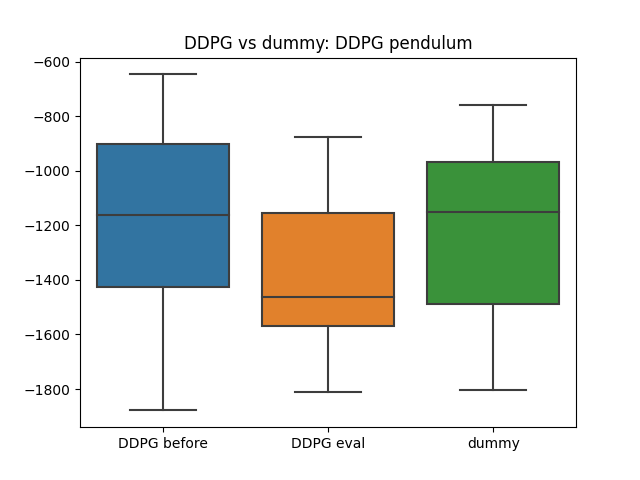
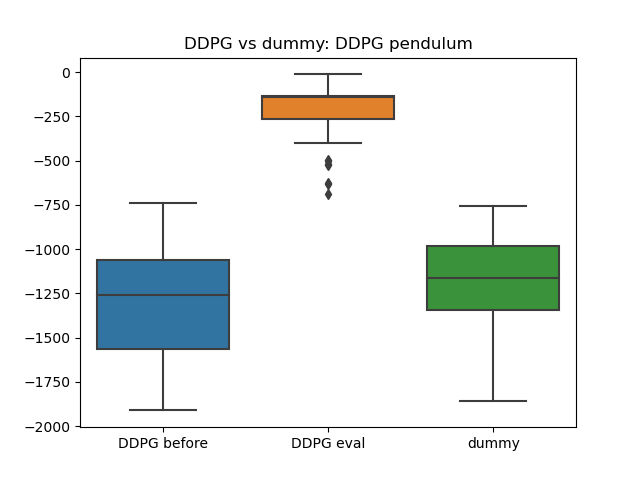
Fixed serious error in DDPG implementation. IT FINALLY WORKS FOR PENDULUM ENV!!! :) Stupid bug on plain sight.

diff --git a/src/algorithms/hybrid/tf2/ddpg.py b/src/algorithms/hybrid/tf2/ddpg.py
@@ -16,6 +16,7 @@ import src.algorithms.algo_utils as autils
 from src import consts
 
 
+
 class DDPG(acommons.RLAgent):
     """
     DDPG implementation. Paper:
@@ -29,20 +30,23 @@ class DDPG(acommons.RLAgent):
                  buffer: mbuff.SimpleMemory,
                  a_min: float,
                  a_max: float,
-                 net_optimizer: krs.optimizers.Optimizer = krs.optimizers.Adam(0.01),
+                 actor_optimizer: krs.optimizers.Optimizer = krs.optimizers.Adam(0.01),
+                 critic_optimizer: krs.optimizers.Optimizer = krs.optimizers.Adam(0.01),
                  loss_function: str = 'mean_squared_error',
                  action_clipper: rl_commons.ActionClipper = rl_commons.DefaultActionClipper(),
                  polyak_tau: float = 0.005,
-                 noise_std: float = 0.1,
+                 noise_gen: autils.NoiseGenerator = autils.OUActionNoise(mean=np.zeros(1), std_deviation=float(0.2) * np.ones(1)),
                  name: str = "DDPG",
-                 target_update_frequency: int = 5):
+                 target_update_frequency: int = 1):
         super().__init__(action_clipper, name)
+        self.noise_gen = noise_gen
         self.actor_net = actor_net
-        self.actor_net_target = actor_net_target
+        self.target_actor = actor_net_target
         self.critic_net = critic_net
-        self.critic_net_target = critic_net_target
+        self.target_critic = critic_net_target
 
-        self.net_optimizer = net_optimizer
+        self.actor_optimizer = actor_optimizer
+        self.critic_optimizer = critic_optimizer
         self.loss_function = loss_function
         self.a_min = a_min
         self.a_max = a_max
@@ -50,23 +54,18 @@ class DDPG(acommons.RLAgent):
         self.polyak_tau = polyak_tau
         self.target_update_frequency = target_update_frequency
 
-        self.noise_std = noise_std
+        self.noise_std = noise_gen
 
-        self.critic_net_target.net.set_weights(self.critic_net.net.get_weights())
-        self.actor_net_target.set_weights(self.actor_net.get_weights())
-
-        self.actor_net.compile(loss=self.loss_function, optimizer=self.net_optimizer)
-        self.actor_net_target.compile(loss=self.loss_function, optimizer=self.net_optimizer)
-
-        self.critic_net.net.compile(loss=self.loss_function, optimizer=self.net_optimizer)
-        self.critic_net_target.net.compile(loss=self.loss_function, optimizer=self.net_optimizer)
+        # self.target_critic.net.set_weights(self.critic_net.net.get_weights())
+        # self.target_actor.set_weights(self.actor_net.get_weights())
 
     def choose_action(self, s: np.array, *args, **kwargs) -> Tuple[np.array, np.array]:
         a, _ = self.actor_net.policy(np.atleast_2d(s))
         a = a.numpy()
-        a_noisy = a + np.random.normal(0.0, scale=self.noise_std, size=(1, self.actor_net.a_dim))
-        a_clip = np.clip(a_noisy, self.a_min, self.a_max)
-        return a_clip.squeeze(), None
+        noise = self.noise_gen.get_noise(a).squeeze()
+        self.noise_gen.update_noise_params()
+        a_noisy = np.clip(a + noise, self.a_min, self.a_max)
+        return a_noisy.squeeze(), None
 
     def train(self,
               env: gym.wrappers.TimeLimit,
@@ -112,7 +111,7 @@ class DDPG(acommons.RLAgent):
                 a, _, done, r, sprime = self.make_step(s, env, clip_action, scaler)
                 self.buffer.store_transition(s, a, r, sprime, None, None, None, done)
 
-                if self.buffer.actual_size >= warmup_size:
+                if self.buffer.actual_size >= warmup_size or done:
                     memory_sample = self.buffer.sample(batch_size, dim_state, dim_action, preserve_order=False)
                     batch_s, batch_a, \
                     batch_r, batch_done, \
@@ -128,9 +127,17 @@ class DDPG(acommons.RLAgent):
                 s = sprime
                 ep_score += r
 
-            if ep % self.target_update_frequency == 0:
-                qnets.polyak_tau_update_networks(self.actor_net_target, self.actor_net, self.polyak_tau)
-                qnets.polyak_tau_update_networks(self.critic_net_target.net, self.critic_net.net, self.polyak_tau)
+                if learning_step % self.target_update_frequency == 0:
+                    for target_w, new_w in zip(self.target_actor.trainable_weights,
+                                               self.actor_net.trainable_weights):
+                        target_w.assign((new_w * self.polyak_tau) + (1. - self.polyak_tau) * target_w)
+
+                    for target_w, new_w in zip(self.target_critic.net.trainable_weights,
+                                               self.critic_net.net.trainable_weights):
+                        target_w.assign((new_w * self.polyak_tau) + (1. - self.polyak_tau) * target_w)
+
+                # qnets.polyak_tau_update_networks(self.target_actor, self.actor_net, self.polyak_tau)
+                # qnets.polyak_tau_update_networks(self.target_critic.net, self.critic_net.net, self.polyak_tau)
 
             if ep % print_interval == 0:
                 autils.log_progress(max_train_sec, average_n_last, all_scores, t0, losses, ep, nepisodes, log,
@@ -153,25 +160,25 @@ class DDPG(acommons.RLAgent):
               gamma: float,
               learning_step: int,
               *args, **kwargs) -> float:
-        sprime_action, _ = self.actor_net_target.policy(sprime)
-        sprime_action = sprime_action.numpy()
-        sprime_target_q_vals = self.critic_net_target.state_action_value(sprime, sprime_action).numpy().squeeze()
+        sprime_action, _ = self.target_actor.policy(sprime)
+
+        sprime_target_q_vals = tf.squeeze(self.target_critic.state_action_value(sprime, sprime_action))
 
         # y = ri + gamma * Q-target(s', a') * (1-done)
-        targets_critic = r + (gamma * (sprime_target_q_vals * (1. - done)))
+        td_target = r + (gamma * (sprime_target_q_vals * (1. - done)))
 
         with tf.GradientTape() as tape:
             mse = krs.losses.MeanSquaredError()
-            s_qval = self.critic_net.state_action_value(s, a, training=True)
-            loss_critic = mse(targets_critic, s_qval)
+            s_qval = self.critic_net.net([s, a], training=True)
+            loss_critic = mse(td_target, s_qval)
         grad_critic = tape.gradient(loss_critic, self.critic_net.net.trainable_variables)
-        self.net_optimizer.apply_gradients(zip(grad_critic, self.critic_net.net.trainable_variables))
+        self.critic_optimizer.apply_gradients(zip(grad_critic, self.critic_net.net.trainable_variables))
 
         with tf.GradientTape() as tape:
-            new_actions, _ = self.actor_net.policy(s)
-            vs = self.critic_net.state_action_value(s, new_actions, training=True)
+            new_actions = self.actor_net(np.atleast_2d(s))
+            vs = self.critic_net.net([s, new_actions], training=True)
             loss_actor = -1 * tf.math.reduce_mean(vs)
         grad_actor = tape.gradient(loss_actor, self.actor_net.trainable_variables)
-        self.net_optimizer.apply_gradients(zip(grad_actor, self.actor_net.trainable_variables))
+        self.actor_optimizer.apply_gradients(zip(grad_actor, self.actor_net.trainable_variables))
 
         return 0.5 * (loss_critic + loss_actor)

diff --git a/src/algorithms/algo_utils.py b/src/algorithms/algo_utils.py
@@ -2,7 +2,7 @@ import logging
 import sys
 import time
 import mlflow
-from typing import List
+from typing import List, Callable
 
 import gym
 import numpy as np
@@ -14,6 +14,63 @@ import src.algorithms.commons as rl_commons
 NANS_EPISLON = "NaNs in epsilons check params"
 
 TOO_FEW_EPISODES_MSG = "Cannot allocate decayed espilons. Try to increase number of episodes or increase decay rate"
+
+
+class NoiseGenerator:
+
+    def get_noise(self, x: np.ndarray) -> np.float:
+        raise NotImplementedError()
+
+    def update_noise_params(self):
+        pass
+
+
+class SimpleNoiseGenerator(NoiseGenerator):
+
+    def __init__(self, mu: float, std: float, rho: float = 0.15, dt: float = 1e-1, dim: int = 1):
+        self.mu = mu
+        self.std = std
+        self.rho = rho
+        self.dt = dt
+        self.dim = dim
+
+    def get_noise(self, x: np.ndarray) -> np.float:
+        return (
+                x + self.rho * (self.mu - x) * self.dt + self.std * np.sqrt(self.dt) * np.random.normal(size=self.dim)
+        )
+
+
+class OUActionNoise(NoiseGenerator):
+    """
+    This implementation has been copied from the Keras documentation site: https://github.com/keras-team/keras-io/blob/master/examples/rl/ddpg_pendulum.py
+    https://github.com/keras-team/keras-io/blob/master/examples/rl/ddpg_pendulum.py
+    """
+    def __init__(self, mean, std_deviation, theta=0.15, dt=1e-2, x_initial=None):
+        self.theta = theta
+        self.mean = mean
+        self.std_dev = std_deviation
+        self.dt = dt
+        self.x_initial = x_initial
+        self.reset()
+
+    def get_noise(self, x: np.ndarray):
+        # Formula taken from https://www.wikipedia.org/wiki/Ornstein-Uhlenbeck_process.
+        x_noise = (
+            self.x_prev
+            + self.theta * (self.mean - self.x_prev) * self.dt
+            + self.std_dev * np.sqrt(self.dt) * np.random.normal(size=self.mean.shape)
+        )
+        # Store x into x_prev
+        # Makes next noise dependent on current one
+        self.x_prev = x_noise
+        return x_noise
+
+    def reset(self):
+        if self.x_initial is not None:
+            self.x_prev = self.x_initial
+        else:
+            self.x_prev = np.zeros_like(self.mean)
+
 
 
 def normalize_state(s: np.ndarray, scaler: object = None) -> np.array:
@@ -96,7 +153,7 @@ def log_progress(
 
 
 def evaluate_algorithm(model: rl_commons.RLAgent, env: gym.Env, n_episodes: int, max_ep_steps: int = 1000,
-                       clip_action: bool = True, scaler: object = None, last_reward_only: bool = False) -> np.array:
+                       clip_action: bool = True, scaler: object = None, last_reward_only: bool = False, scores_summary_operator: Callable = np.sum) -> np.array:
     """
     Evaluates an agent against an environment and collects scores along the way.
 
@@ -124,6 +181,9 @@ def evaluate_algorithm(model: rl_commons.RLAgent, env: gym.Env, n_episodes: int,
         Should only last reward in episode be returned? Useful in env when the final reward is some sort of summary
         e.g. profit & loss.
 
+    scores_summary_operator: Callable
+        A function to be called to summarize episode.
+
     Returns
     -------
     np.array
@@ -133,7 +193,7 @@ def evaluate_algorithm(model: rl_commons.RLAgent, env: gym.Env, n_episodes: int,
     for _ in tqdm(range(n_episodes)):
         done = False
         step = 0
-        ep_score = 0.
+        ep_scores = []
         s = env.reset()
         while not done:
             if step > max_ep_steps:
@@ -142,12 +202,13 @@ def evaluate_algorithm(model: rl_commons.RLAgent, env: gym.Env, n_episodes: int,
             a, a_logprob = model.choose_action(s)
             a_clip = np.clip(a, env.action_space.low, env.action_space.high) if clip_action else a
             sprime, r, done, _ = env.step(np.atleast_1d(a_clip)) if env.action_space.shape != () else env.step(a_clip)
-            ep_score += r
+            ep_scores.append(r)
             s = sprime
         if last_reward_only:
             scores.append(r)
         else:
-            scores.append(ep_score)
+            ep_summary = scores_summary_operator(ep_scores)
+            scores.append(ep_summary)
     return np.array(scores)
 
 

diff --git a/experiments/hybrid/ddpg/ddpg_pendulum_experiment.py b/experiments/hybrid/ddpg/ddpg_pendulum_experiment.py
@@ -14,7 +14,6 @@ from src.envs.cartpole_continuous import ContinuousCartPoleEnv
 
 EXPERIMENT_NAME = "DDPG pendulum"
 
-
 if __name__ == "__main__":
     log = utils.prepare_default_log()
     model_name_abbrev = f'ddpg'
@@ -31,29 +30,39 @@ if __name__ == "__main__":
     h_initializer = krs.initializers.HeNormal()
     out_initializer = krs.initializers.RandomUniform(minval=-0.003, maxval=0.003)
     actor_net = pinets.DeterministicPolicyNet(a_dim, h_sizes=policy_arch, h_act=policy_act_f, out_act=out_act_f,
-                                              out_initializer=out_initializer, hidden_initializer=h_initializer, a_max=h)
-    actor_net_target = pinets.DeterministicPolicyNet(a_dim=a_dim, h_sizes=policy_arch, h_act=policy_act_f, out_act=out_act_f,
-                                                     out_initializer=out_initializer, hidden_initializer=h_initializer, a_max=h)
+                                              out_initializer=out_initializer, hidden_initializer=h_initializer,
+                                              a_max=h)
+    actor_net_target = pinets.DeterministicPolicyNet(a_dim=a_dim, h_sizes=policy_arch, h_act=policy_act_f,
+                                                     out_act=out_act_f,
+                                                     out_initializer=out_initializer, hidden_initializer=h_initializer,
+                                                     a_max=h)
 
     critic_arch_shared = [256, 256]
     critic_arch_a_sizes = [64]
-    critic_arch_s_sizes = [64]
+    critic_arch_s_sizes = [64, 32]
     critic_h_act = 'relu'
-    critic_out_act = None
-    critic = q_nets.QSANet(s_dim, a_dim, critic_arch_shared, critic_arch_a_sizes, critic_arch_s_sizes, h_act=critic_h_act, out_act=critic_out_act)
-    critic_target = q_nets.QSANet(s_dim, a_dim, critic_arch_shared, critic_arch_a_sizes, critic_arch_s_sizes, h_act=critic_h_act, out_act=critic_out_act)
+    critic_out_act = 'linear'
+    critic = q_nets.QSANet(s_dim, a_dim, critic_arch_shared, critic_arch_a_sizes, critic_arch_s_sizes,
+                           h_act=critic_h_act, out_act=critic_out_act)
+    critic_target = q_nets.QSANet(s_dim, a_dim, critic_arch_shared, critic_arch_a_sizes, critic_arch_s_sizes,
+                                  h_act=critic_h_act, out_act=critic_out_act)
 
-    lr_policy = 0.001
-    opt = krs.optimizers.Adam(lr_policy)
+    lr_policy = 0.0001
+    lr_critic = 0.001
+    actor_opt = krs.optimizers.Adam(lr_policy)
+    critic_opt = krs.optimizers.Adam(lr_critic)
 
     buffer = mbuff.SimpleMemory(25000)
 
-    agent = ddpg.DDPG(actor_net, actor_net_target, critic, critic_target, buffer, l, h, opt, target_update_frequency=1, polyak_tau=0.001)
+    agent = ddpg.DDPG(actor_net, actor_net_target, critic, critic_target, buffer, l, h, actor_optimizer=actor_opt,
+                      critic_optimizer=critic_opt, target_update_frequency=1,
+                      polyak_tau=0.005)
     agent_hyperparams = {
         consts.POLICY_ACT_F: policy_act_f,
         f"actor{consts.W_INITIALIZER}": h_initializer,
         consts.POLICY_ARCH: policy_arch,
         consts.LEARNING_RATE_POLICY: lr_policy,
+        consts.LEARNING_RATE_VALUE: lr_critic,
         consts.CRITIC_ARCH: critic_arch_shared,
         consts.CRITIC_A_SZ: critic_arch_a_sizes,
         consts.CRITIC_S_SZ: critic_arch_s_sizes,
